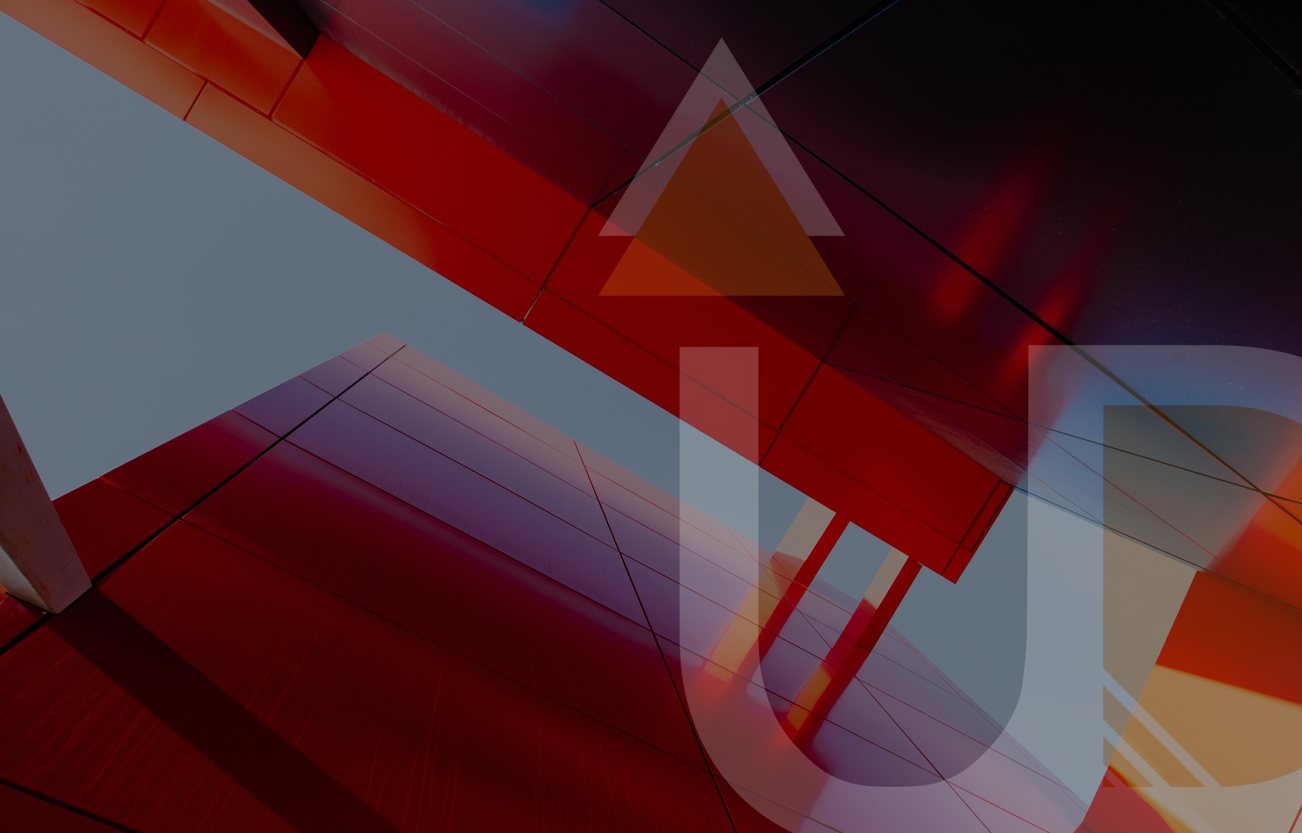
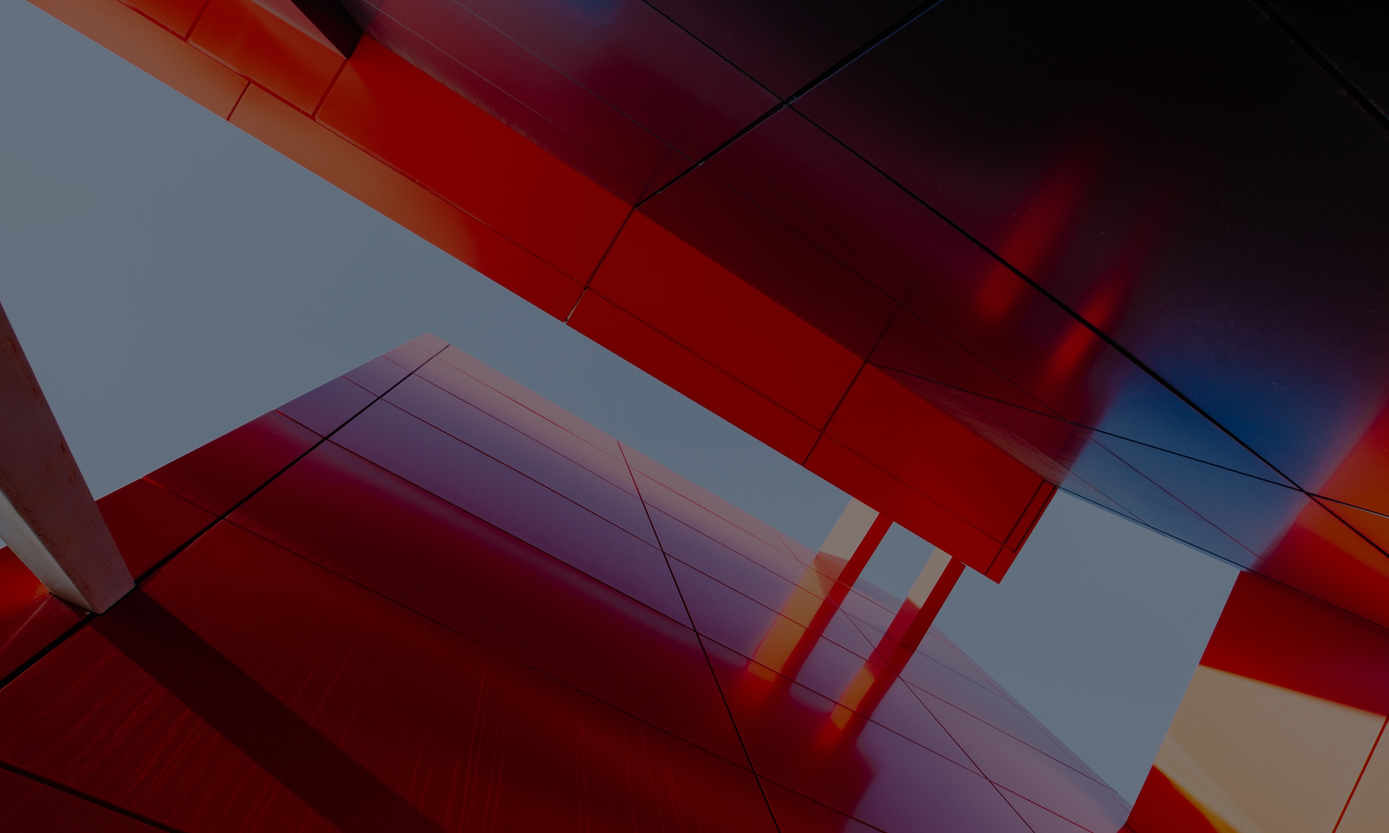
Add desktop contact integration

diff --git a/resources/assets/sass/components/contact.scss b/resources/assets/sass/components/contact.scss
@@ -1,0 +1,58 @@
+section.contact{
+  background-image: url('/images/contact_background.jpg');
+  background-size: cover;
+  padding-top: 60px;
+  padding-bottom: 80px;
+  .title{
+    color: #fff;
+    font-family: $font-Futura-Medium;
+    font-size: 30px;
+    letter-spacing: 1px;
+  }
+  padding-right: 15%;
+  padding-left: 15%;
+
+  input, textarea{
+    border: none;
+    padding: 0px 10px;
+    outline: none;
+    color: #000;
+    height: 50px;
+    font-family: $font-Futura-Medium;
+    color: #4A4A4A;
+    font-size: 16px;
+  }
+
+  #nom_contact, #prenom_contact{
+    width: calc(50% - 35px);
+    display: inline-block;
+    float: left;
+    margin-top: 70px;
+  }
+
+  #prenom_contact{
+    margin-left: 30px;
+  }
+
+  #email_contact, #objet_contact, #message_contact{
+    width: calc(100% - 20px);
+    margin-top: 20px;
+  }
+
+  #message_contact{
+    padding-top: 10px;
+    height: auto;
+  }
+
+  #submit_contact{
+    width: 30%;
+    margin-left: 70%;
+    margin-top: 20px;
+    background-color: #fff;
+    outline: none;
+    cursor: pointer;
+    font-family: $font-Futura-Medium;
+    font-size: 16px;
+  }
+
+}

diff --git a/resources/assets/sass/components/group_home.scss b/resources/assets/sass/components/group_home.scss
@@ -49,7 +49,7 @@ section.group{
                 display: inline-block;
                 height: 50px;
                 width: 50px;
-                border: 1px solid $color-orange;
+                background-color: $color-orange;
                 border-radius: 50%;
                 position: relative;
                 &:before {
@@ -69,6 +69,7 @@ section.group{
                 bottom: 20px;
                 left: 20px;
                 letter-spacing: 0.5px;
+                color: $color-orange;
               }
             }
           }

diff --git a/resources/assets/sass/app.scss b/resources/assets/sass/app.scss
@@ -17,6 +17,7 @@ $color-lightgrey: #E3E3E3;
 @import "components/group_home";
 @import "components/key_figures";
 @import "components/partners";
+@import "components/contact.scss";
 @import "components/call";
 
 body .main-app{

diff --git a/resources/assets/sass/components/call.scss b/resources/assets/sass/components/call.scss
@@ -16,6 +16,7 @@ div.call-us {
   width: 60px;
   border-radius: 36px;
   background-color: $color-orange;
+  cursor: pointer;
 
 
 

diff --git a/resources/views/components/contact.blade.php b/resources/views/components/contact.blade.php
@@ -1,15 +1,15 @@
 <section class="contact">
-    <input type="text" required placeholder="Nom" name="nom" id="nom_contact"><br>
-    <input type="text" required placeholder="Prénom" name="prenom" id="prenom_contact"><br>
-    <input type="email" required placeholder="Email" name="email" id="email_contact"><br>
-    <input type="number" placeholder="Numéro de téléphone" required id="numero_contact" name="numero"><br>
 
-    <input type="text" id="objet_contact" placeholder="Objet du message"><br>
+    <h2 class="title">UNE QUESTION, UN PROJET ?</h2>
 
-    <textarea name="message" id="message_contact" cols="30" rows="10" placeholder="Votre message">
+    <input type="text" required placeholder="Nom" name="nom" id="nom_contact">
+    <input type="text" required placeholder="Prénom" name="prenom" id="prenom_contact">
 
-    </textarea>
-    <input type="submit" id="submit_contact" value="Envoyer">
+    <br><br>
+    <input type="email" required placeholder="Email" name="email" id="email_contact">
+    <input type="text" id="objet_contact" placeholder="Objet du message">
+    <textarea name="message" id="message_contact" cols="30" rows="10" placeholder="Votre message"></textarea>
+    <input type="submit" id="submit_contact" value="ENVOYER">
 
     <script>
         function sendMessage(){
@@ -23,7 +23,6 @@
                     firstname : $('#prenom_contact').val(),
                     lastname : $('#nom_contact').val(),
                     email : $('#email_contact').val(),
-                    number : $('#numero_contact').val(),
                     object : $('#objet_contact').val(),
                     message : $('#message_contact').val()
                 },

diff --git a/resources/views/components/call.blade.php b/resources/views/components/call.blade.php
@@ -25,10 +25,7 @@
     $("#demo").intlTelInput();
 
     $('.call-us').click(function(){
-
-
-
-        $('.callback--container').show();
+        $('.callback--container').fadeIn();
         $('.call-us').addClass('bounce');
     setTimeout(function () {
         $('.call-us').removeClass('bounce');
@@ -36,12 +33,12 @@
         if($('.phone').css('display')== 'none'){
 
 
-            $('.callback--container').hide();
+            $('.callback--container').fadeOut();
             $('.cross').css({display : 'none'});
             $('.phone').css({display : 'block'});
         }else{
 
-            $('.callback--container').show();
+            $('.callback--container').fadeIn();
             $('.phone').css({display : 'none'});
             $('.cross').css({display : 'block'});
         }

diff --git a/resources/views/admin/messages.blade.php b/resources/views/admin/messages.blade.php
@@ -16,7 +16,6 @@
                                     <a class="title-new" href="/admin/messages/{{$message->id}}">
                                         {{$message->firstname}}<br>
                                         {{$message->lastname}}<br>
-                                        {{$message->number}}
                                     </a>
                                 <div class="row">
                                     <div class="col-xs-6">

diff --git a/resources/views/admin/message_view.blade.php b/resources/views/admin/message_view.blade.php
@@ -9,7 +9,6 @@
                 </div>
                 <div class="panel-body">
                     <div class="row">
-                        <h3>Numéro de téléphone : {{$message->number}}</h3>
                         <h3>Adresse e-mail : {{$message->email}}</h3>
                         <h3>Objet : {{$message->object}}</h3>
                         <h4>Message : </h4>

diff --git a/app/Http/Controllers/IndexController.php b/app/Http/Controllers/IndexController.php
@@ -17,7 +17,6 @@ class IndexController extends Controller
 				'firstname' => $request['firstname'],
 				'lastname' => $request['lastname'],
 				'email' => $request['email'],
-				'number' => $request['number'],
 				'object' => $request['object'],
 				'message' => $request['message']
 			]

diff --git a/database/migrations/2017_04_18_123945_create_messages_table.php b/database/migrations/2017_04_18_123945_create_messages_table.php
@@ -17,7 +17,6 @@ class CreateMessagesTable extends Migration
 			$table->increments('id');
 			$table->string('firstname');
 			$table->string('lastname');
-			$table->string('number');
 			$table->string('email');
 			$table->string('object');
 			$table->string('message');
